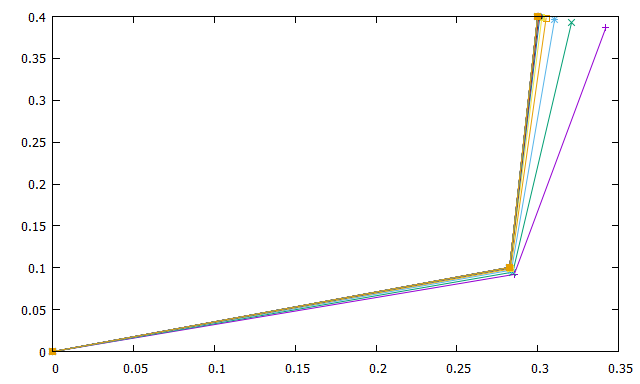
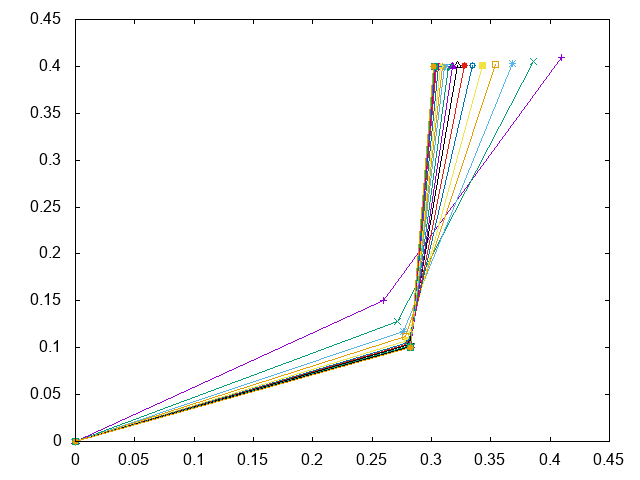
Tweaked plot data
データのプロット部分を微修正

diff --git a/IK.rb b/IK.rb
@@ -28,7 +28,7 @@ end
 
 L1 = 0.3 # リンク1
 L2 = 0.3 # リンク2
-k = 0.5 # 収束比例定数
+k = 0.2 # 収束比例定数
 number_of_steps = 20 # 計算回数
 r = N[[0.3,0.4]] # 目標位置
 th = deg2rad(N[[30,30]]) # 初期関節角度
@@ -38,6 +38,9 @@ orbit_y = []
 g.push(rad2deg(th))
 
 number_of_steps.times do
+  orbit_x.push([0,L1 * Math.cos(th[0]),L1 * Math.cos(th[0]) + L2 * Math.cos(th[0] + th[1])])
+  orbit_y.push([0,L1 * Math.sin(th[0]),L1 * Math.sin(th[0]) + L2 * Math.sin(th[0] + th[1])])
+
   pe = f(th) # 順運動学計算
 
   # 偏角計算
@@ -47,17 +50,15 @@ number_of_steps.times do
   th = th + dT.transpose
 
   g.push(rad2deg(th))
-
-  orbit_x.push([0,L1 * Math.cos(th[0]),L1 * Math.cos(th[0]) + L2 * Math.cos(th[0] + th[1])])
-  orbit_y.push([0,L1 * Math.sin(th[0]),L1 * Math.sin(th[0]) + L2 * Math.sin(th[0] + th[1])])
 end
 
 # 結果の出力
-puts rad2deg(th),f(th)
+puts "[θ1,θ2] = #{rad2deg(th)}"
+puts "[px,py] = #{f(th)}"
 
 Gnuplot.open do |gp|
   Gnuplot::Plot.new(gp) do |plot|
-
+    plot.terminal "png"
     plot.output "arm.png"
 
     x = [0,L1 * Math.cos(th[0]),L1 * Math.cos(th[0]) + L2 * Math.cos(th[0] + th[1])]
@@ -75,6 +76,7 @@ end
 Gnuplot.open do |gp|
   Gnuplot::Plot.new(gp) do |plot|
     plot.key "under"
+    plot.terminal "png"
     plot.output "theta.png"
 
     steps = (0..number_of_steps).to_a
@@ -82,20 +84,20 @@ Gnuplot.open do |gp|
     plot.data << Gnuplot::DataSet.new([steps, g.map{|row| row[0]}]) do |ds|
       ds.with      = "linespoints"
       ds.linewidth = 3
-      ds.title = "θ1"
+      ds.title = "theta 1"
     end
 
     plot.data << Gnuplot::DataSet.new([steps, g.map{|row| row[1]}]) do |ds|
       ds.with      = "linespoints"
       ds.linewidth = 3
-      ds.title = "θ2"
+      ds.title = "theta 2"
     end
   end
 end
 
 Gnuplot.open do |gp|
   Gnuplot::Plot.new(gp) do |plot|
-
+    plot.terminal "png"
     plot.output "arm_orbit.png"
 
     orbit_x.size.times do |i|
